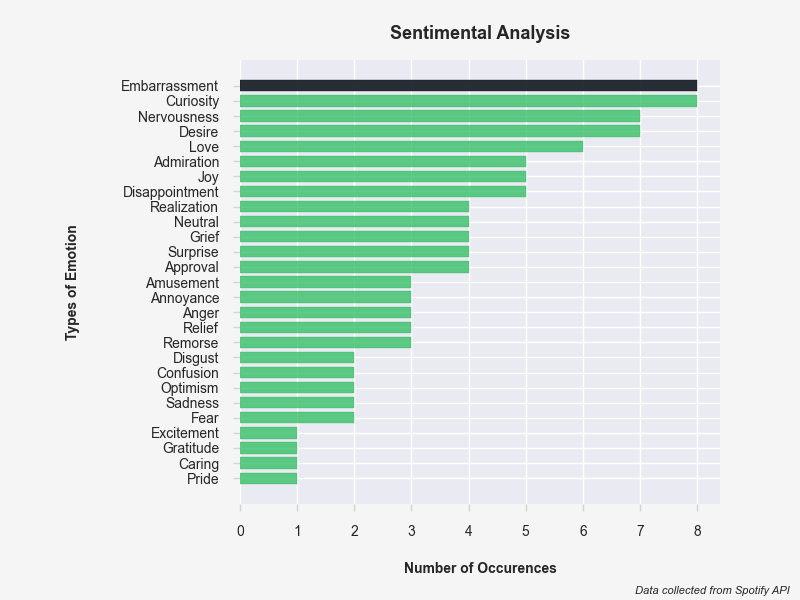
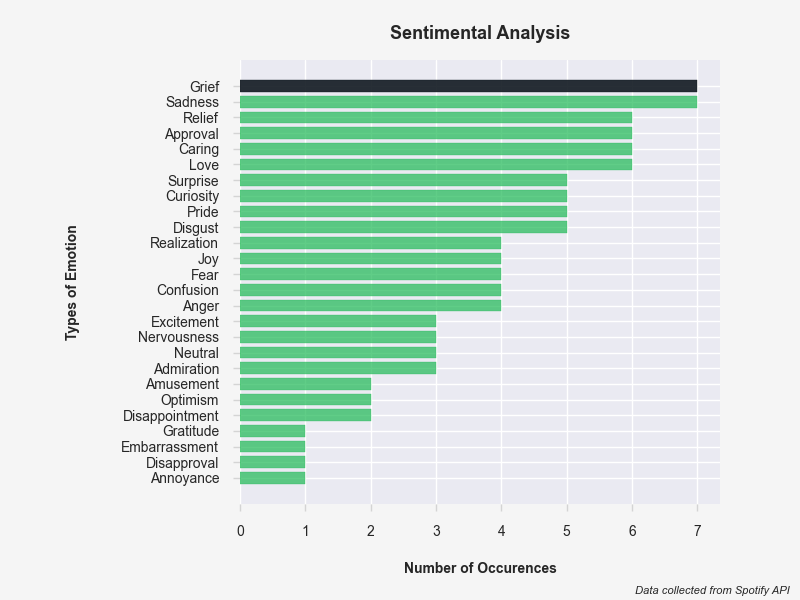
Changed Graph Code to return base64 encoded string.

diff --git a/server/Graph_Code.py b/server/Graph_Code.py
@@ -1,6 +1,8 @@
 import pandas as pd
 import matplotlib.pyplot as plt
 import random
+import base64
+import io
 
 # Example array for df
 songs = [
@@ -64,55 +66,75 @@ data = pd.DataFrame(
     }
 )
 
-# Plot size
-fig = plt.figure(figsize=(8, 6))
 
-# Group by emotion and summarize
-counts = data.groupby("emotion").size().reset_index(name="count")
-# Reorder high to low
-counts = counts.sort_values("count", ascending=False)
-# Get most common emotion
-highest_emotion = counts.iloc[0]["emotion"]
+'''
+Constructs a Graph Image based off of the given data
+Then encodes the image in base64 to be sent back to the server.
+'''
+def construct_Song_Emotions_Graph(data):
+    # Plot size
+    fig = plt.figure(figsize=(8, 6))
 
-# Define style
-plt.style.use("seaborn")
-# Create and color bar graph bars
-bars = plt.barh(
-    counts["emotion"], counts["count"], color="#1DB954", height=0.75
-)  # Define default color and width
-# For in range of bars, if highest emotion, color charcoal
-for i, bar in enumerate(bars):
-    if counts.iloc[i]["emotion"] == highest_emotion:
-        bar.set_color("#101820FF")
-        bar.set_alpha(0.9)  # Set opacity
-    # else, color spotify green
-    else:
-        bar.set_color("#1DB954")
-        bar.set_alpha(0.7)  # Set opacity
+    # Group by emotion and summarize
+    counts = data.groupby("emotion").size().reset_index(name="count")
+    # Reorder high to low
+    counts = counts.sort_values("count", ascending=False)
+    # Get most common emotion
+    highest_emotion = counts.iloc[0]["emotion"]
 
-# Add plot margins
-plt.subplots_adjust(left=0.3, right=0.9, top=0.9, bottom=0.16)
+    # Define style
+    plt.style.use("seaborn")
+    # Create and color bar graph bars
+    bars = plt.barh(
+        counts["emotion"], counts["count"], color="#1DB954", height=0.75
+    )  # Define default color and width
+    # For in range of bars, if highest emotion, color charcoal
+    for i, bar in enumerate(bars):
+        if counts.iloc[i]["emotion"] == highest_emotion:
+            bar.set_color("#101820FF")
+            bar.set_alpha(0.9)  # Set opacity
+        # else, color spotify green
+        else:
+            bar.set_color("#1DB954")
+            bar.set_alpha(0.7)  # Set opacity
 
-# Coor_flip
-plt.gca().invert_yaxis()
+    # Add plot margins
+    plt.subplots_adjust(left=0.3, right=0.9, top=0.9, bottom=0.16)
 
-# Background color of panel to match JS script
-plt.gcf().set_facecolor("#F5F5F5")
+    # Coor_flip
+    plt.gca().invert_yaxis()
 
-# Labels -> define padding, font, and style
-plt.ylabel("Types of Emotion", labelpad=30, fontsize=10, fontweight="bold")
-plt.xlabel("Number of Occurences", labelpad=17, fontsize=10, fontweight="bold")
-plt.title("Sentimental Analysis", pad=15, fontsize=13, fontweight="bold")
+    # Background color of panel to match JS script
+    plt.gcf().set_facecolor("#F5F5F5")
 
-# Edit tick marks -> style, color, length, width, and padding
-plt.tick_params(axis="x", which="major", length=5, width=1, color="#D4D4D4", pad=10)
-plt.tick_params(axis="y", which="major", length=5, width=1, color="#D4D4D4", pad=10)
+    # Labels -> define padding, font, and style
+    plt.ylabel("Types of Emotion", labelpad=30, fontsize=10, fontweight="bold")
+    plt.xlabel("Number of Occurences", labelpad=17, fontsize=10, fontweight="bold")
+    plt.title("Sentimental Analysis", pad=15, fontsize=13, fontweight="bold")
 
-# Add caption to bottom right of plot panel
-txt = "Data collected from Spotify API"
-plt.figtext(
-    0.89, 0.01, txt, wrap=True, horizontalalignment="center", fontsize=8, style="italic"
-)
+    # Edit tick marks -> style, color, length, width, and padding
+    plt.tick_params(axis="x", which="major", length=5, width=1, color="#D4D4D4", pad=10)
+    plt.tick_params(axis="y", which="major", length=5, width=1, color="#D4D4D4", pad=10)
 
-# Save the graph
-plt.savefig("SentimentalAnalysis_Graph.png")
+    # Add caption to bottom right of plot panel
+    txt = "Data collected from Spotify API"
+    plt.figtext(
+        0.89, 0.01, txt, wrap=True, horizontalalignment="center", fontsize=8, style="italic"
+    )
+
+    my_stringIObytes = io.BytesIO()
+    plt.savefig(my_stringIObytes, format='png')
+    my_stringIObytes.seek(0)
+    encoded = base64.b64encode(my_stringIObytes.read()).decode()
+
+
+    imgdata = base64.b64decode(encoded)
+    filename = 'some_image.jpg'  # I assume you have a way of picking unique filenames
+    with open(filename, 'wb') as f:
+        f.write(imgdata)
+
+    return encoded
+
+    # Save the graph
+
+construct_Song_Emotions_Graph(data)

diff --git a/server/webscraping.py b/server/webscraping.py
@@ -8,12 +8,17 @@ class Song:
         self.artists = artists
         self.isrc = isrc
         self.lyrics = ""
+        self.emotions = []
 
     def __str__(self):
         return self.name + " " + self.artists + " " + self.isrc + " " + self.lyrics
     
     def toJson(self):
         return {'name': self.name, 'artists': self.artists, 'isrc': self.isrc, "lyrics": self.lyrics}
+    
+    def to_Data_Frame(self):
+        df = pd.DataFrame()
+
 
 '''Constructs a list of the top songs using the 'Song' class.'''
 def read_top_songs(data):

diff --git a/server/model.py b/server/model.py
@@ -63,6 +63,7 @@ class Model:
         @param  bert_classifier: BertClassifier object
         @param  tokenizer: BertTokenizer object
         """
+        
     # TRAINING DATA
         # Load the CSV data (expected to run from folder: "./Artificial Intelligence/Spotify_NLP_Service")
         df = pd.read_csv(file_path)
